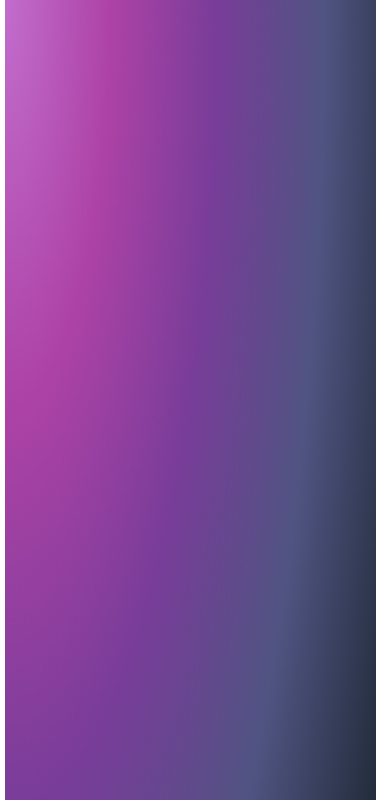
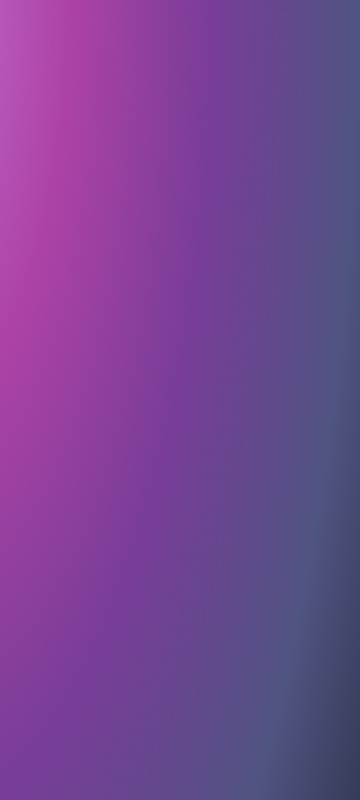
changes viewport

Changed region(s): [[0.8556, 0.0, 1.0, 1.0], [0.0, 0.0, 0.0306, 1.0]]

diff --git a/style.css b/style.css
@@ -24,7 +24,7 @@
 
 body {
     background: var(--bg-url) no-repeat top center/cover;
-    height: 100%
+    height: 120%
 }
 
 
